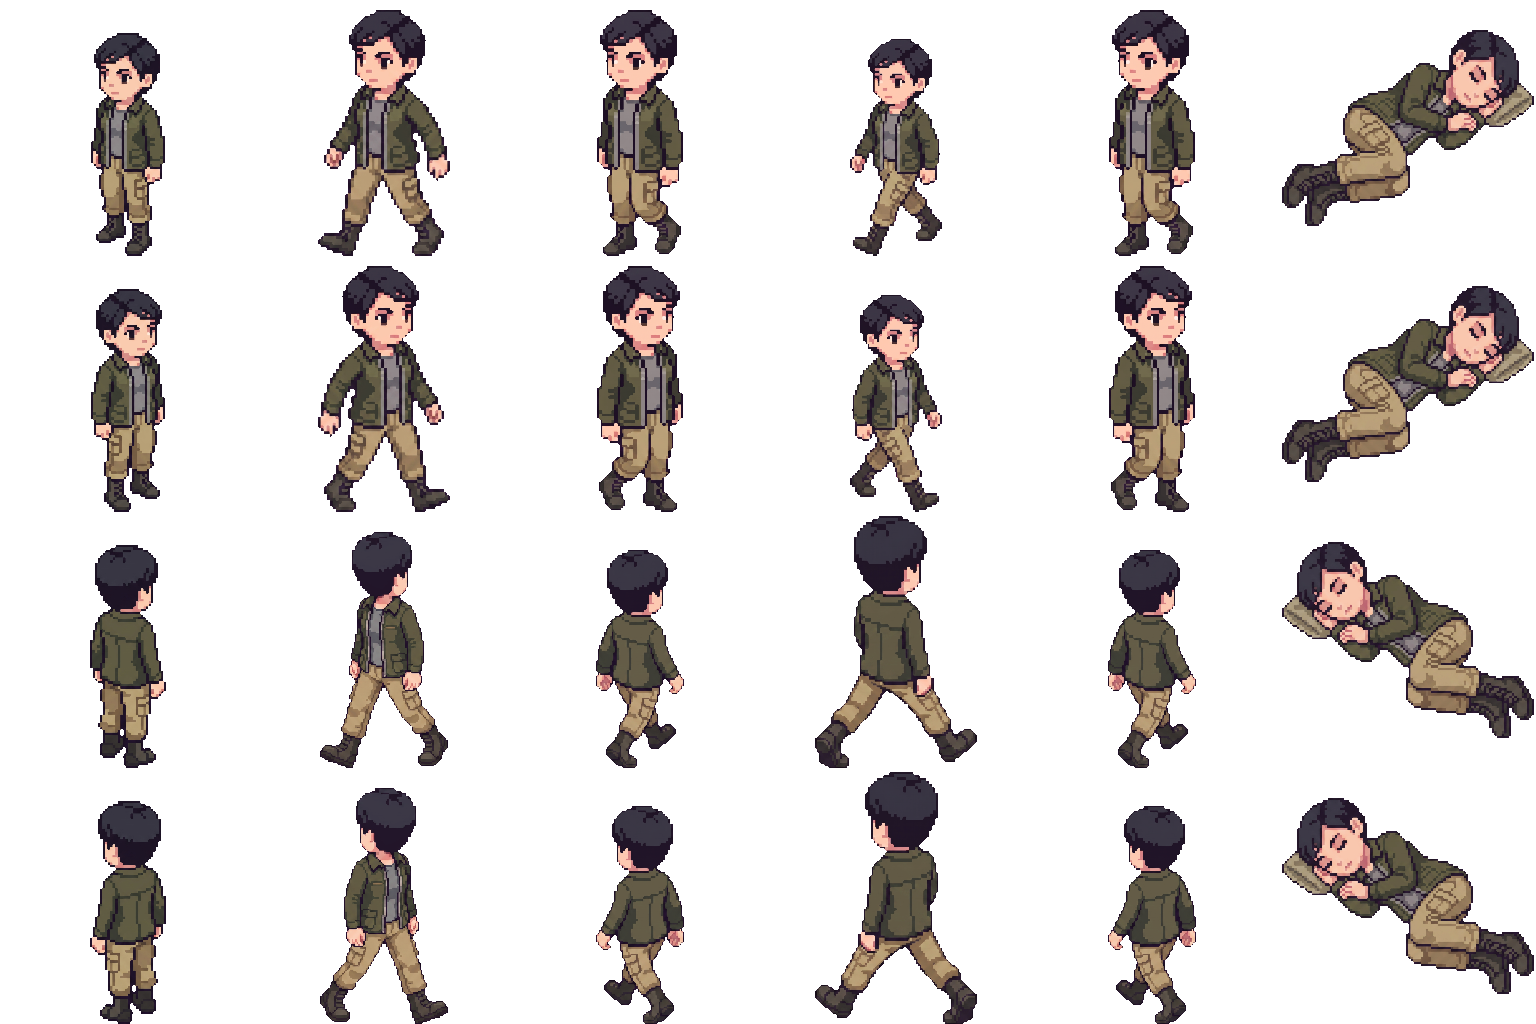
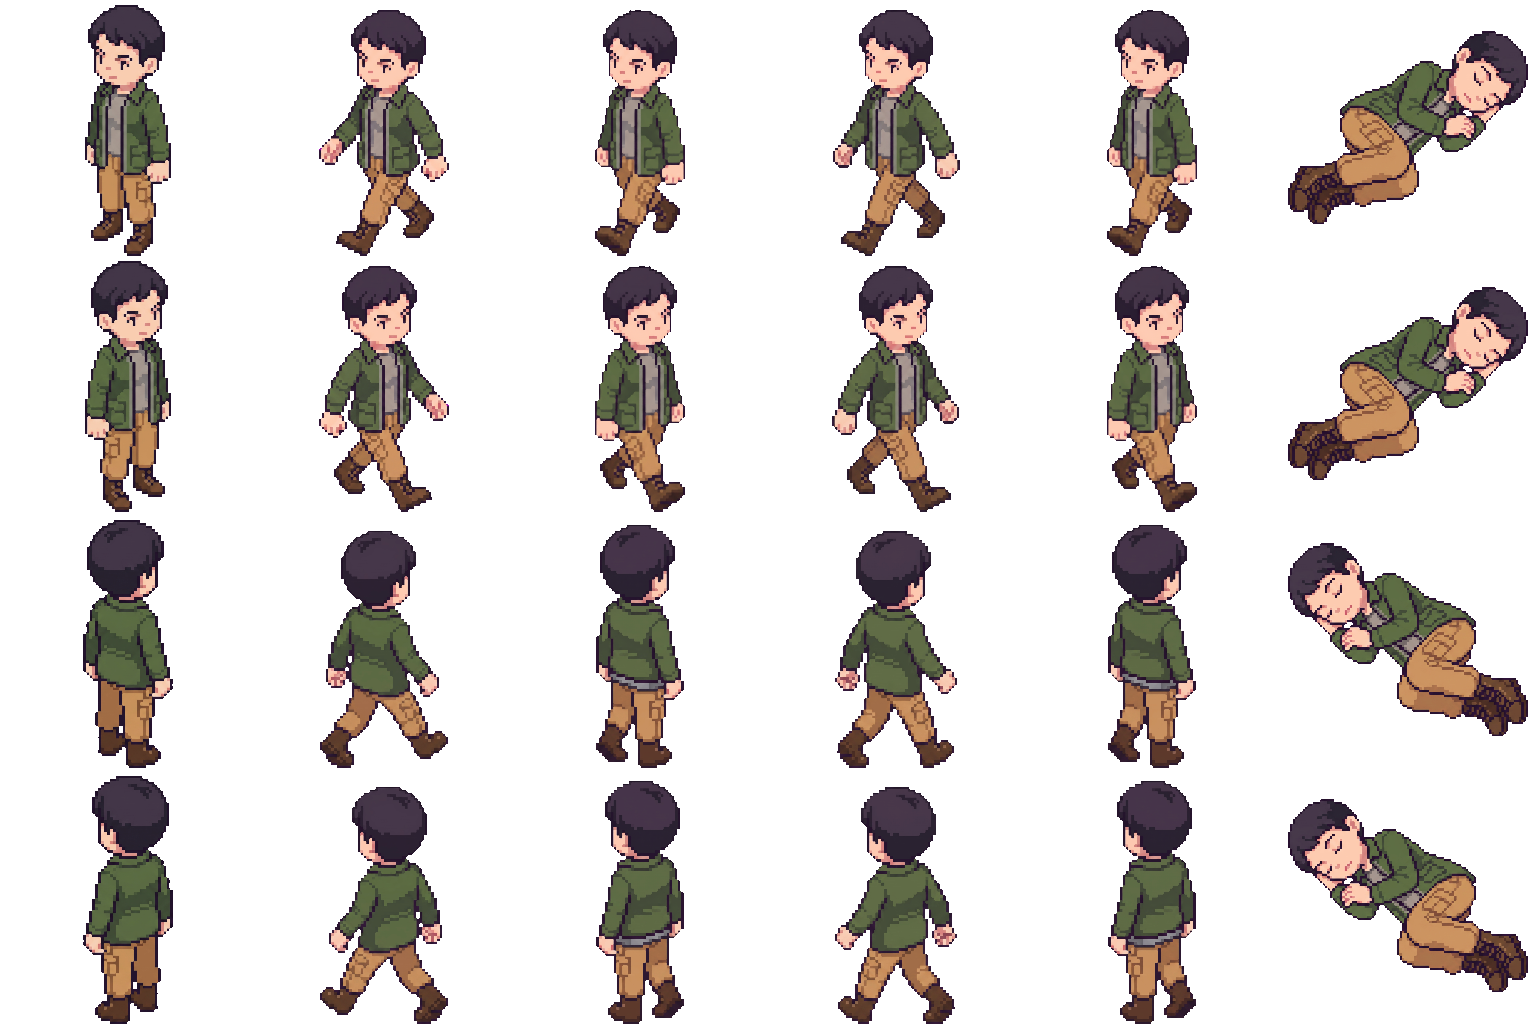
A walk row keeps one height and one face, and the key's leftovers are refused
Dilara shrank mid-stride because her idle came back small and every stride
drew tall; tariq turned his back twice a step. Three laws over a row of
walk cells now read the committed atlases and refuse a sheet before it is
written: the five heights spread at most 18 px, a front-facing head keeps
half the row's skin, and a magenta disc the key missed is not art. Dilara
is redrawn whole off a taller master; tariq's passing frame faces front.

Claude-Session: https://claude.ai/code/session_01Fv7TMdGbp6aijJ41zaaSTX

diff --git a/packages/forge/src/walkGates.ts b/packages/forge/src/walkGates.ts
@@ -1,0 +1,95 @@
+// Two laws over one row of a walk cycle that the frame-to-frame gates cannot see: a figure that
+// shrinks mid-stride (dilara's contact-b shipped 29 px short) and a front-facing frame drawn from
+// behind (tariq's passing frame shipped hair only, no face). Both read committed cells, no model.
+import { opaqueBbox } from './sheet.js'
+import type { RawImage } from './post/raw.js'
+
+export const WALK_CELLS = ['idle', 'contact-a', 'passing-a', 'contact-b', 'passing-b'] as const
+
+/** Measured over sixteen shipped sheets: a healthy row spreads 5–15 px (a contact pose dips
+ *  the figure a few pixels below its idle); the defect measured 29 and 34. */
+export const WALK_HEIGHT_SPREAD_MAX = 18
+
+/** A front-facing frame keeps at least this share of the row's fullest head. Healthy front
+ *  rows measure 0.61 and up; the back of a head measured 0.35. */
+export const HEAD_SKIN_SHARE_MIN = 0.5
+
+// The palette's three skin tones; the fringe over a face is hair, and hair is none of these.
+const SKIN: readonly [number, number, number][] = [
+  [0xf5, 0xd3, 0xb3],
+  [0xd9, 0xa8, 0x76],
+  [0x9c, 0x6b, 0x47],
+]
+const SKIN_TOLERANCE = 60
+
+const isSkin = (r: number, g: number, b: number): boolean =>
+  SKIN.some(
+    ([sr, sg, sb]) => Math.abs(r - sr) + Math.abs(g - sg) + Math.abs(b - sb) <= SKIN_TOLERANCE,
+  )
+
+export function figureHeight(img: RawImage): number {
+  const b = opaqueBbox(img)
+  return b === null ? 0 : b.y1 - b.y0 + 1
+}
+
+/** Skin pixels in the head band — the top third of the figure's own bounding box. */
+export function headSkinPixels(img: RawImage): number {
+  const b = opaqueBbox(img)
+  if (b === null) return 0
+  const band = Math.round((b.y1 - b.y0 + 1) / 3)
+  let n = 0
+  for (let y = b.y0; y < b.y0 + band; y++)
+    for (let x = b.x0; x <= b.x1; x++) {
+      const i = (y * img.width + x) * 4
+      if (img.data[i + 3]! > 0 && isSkin(img.data[i]!, img.data[i + 1]!, img.data[i + 2]!)) n++
+    }
+  return n
+}
+
+/** Opaque pixels the chroma key left behind. A shadow disc under the feet measured 1 250; the
+ *  shipped sheets carry 0–7 such pixels along an outline, which is the key's edge, not a disc. */
+export const MAGENTA_RESIDUE_MAX = 20
+
+export function magentaResidue(img: RawImage): number {
+  let n = 0
+  for (let i = 0; i < img.data.length; i += 4) {
+    if (img.data[i + 3]! === 0) continue
+    const r = img.data[i]!,
+      g = img.data[i + 1]!,
+      b = img.data[i + 2]!
+    if (r > 140 && b > 140 && g < 0.6 * Math.min(r, b)) n++
+  }
+  return n
+}
+
+export type WalkRowFailure = {
+  gate: 'walk-height' | 'head-skin'
+  cell: string
+  value: number
+  limit: number
+}
+
+/** One row of a facing: the five walk cells by name. `frontFacing` turns the face law on. */
+export function walkRowGate(
+  cells: Readonly<Record<(typeof WALK_CELLS)[number], RawImage>>,
+  frontFacing: boolean,
+): WalkRowFailure[] {
+  const out: WalkRowFailure[] = []
+  const heights = WALK_CELLS.map((c) => figureHeight(cells[c]))
+  const spread = Math.max(...heights) - Math.min(...heights)
+  if (spread > WALK_HEIGHT_SPREAD_MAX) {
+    const shortest = WALK_CELLS[heights.indexOf(Math.min(...heights))]!
+    out.push({ gate: 'walk-height', cell: shortest, value: spread, limit: WALK_HEIGHT_SPREAD_MAX })
+  }
+  if (frontFacing) {
+    const skin = WALK_CELLS.map((c) => headSkinPixels(cells[c]))
+    const most = Math.max(...skin)
+    if (most > 0)
+      for (const [i, c] of WALK_CELLS.entries()) {
+        const share = skin[i]! / most
+        if (share < HEAD_SKIN_SHARE_MIN)
+          out.push({ gate: 'head-skin', cell: c, value: share, limit: HEAD_SKIN_SHARE_MIN })
+      }
+  }
+  return out
+}

diff --git a/packages/forge/scripts/gen-cast-v5.ts b/packages/forge/scripts/gen-cast-v5.ts
@@ -42,6 +42,7 @@ import { trimToFigure } from '../src/hires.js'
 import { packCharacterAtlas } from '../src/atlasV4.js'
 import { alphaBinaryGate, paletteDistance, soleSilhouetteGate } from '../src/pixelGates.js'
 import { quantize } from '../src/post/quantize.js'
+import { MAGENTA_RESIDUE_MAX, WALK_CELLS, magentaResidue, walkRowGate } from '../src/walkGates.js'
 import { refusalMessage } from '../src/gate.js'
 import { CAST_CONTENT_DIR } from '../src/castArt.js'
 import { BIG_PIXEL, PROPORTION_CLAUSE } from './character.js'
@@ -473,6 +474,9 @@ async function runCharacter(m: CastMember): Promise<void> {
     // inside the figure's own column reads as one cluster. Hard reject: another candidate is drawn.
     const sole = soleSilhouetteGate(hi)
     if (!sole.ok) throw new Error(sole.failures.join('; '))
+    const residue = magentaResidue(hi)
+    if (residue > MAGENTA_RESIDUE_MAX)
+      throw new Error(`${residue} magenta pixels the key missed — a shadow disc`)
     const b = opaqueBbox(hi)!
     const aspect = (b.x1 - b.x0 + 1) / (b.y1 - b.y0 + 1)
     if (aspect > 1.15) throw new Error(`aspect ${aspect.toFixed(2)} > 1.15 — multi-figure or lying`)
@@ -586,6 +590,8 @@ async function runCharacter(m: CastMember): Promise<void> {
       // caption, and a sleeping villager is where the model likes to draw floating "z"s.
       const sole = soleSilhouetteGate(hi)
       if (!sole.ok) throw new Error(sole.failures.join('; '))
+      const residue = magentaResidue(hi)
+      if (residue > MAGENTA_RESIDUE_MAX) throw new Error(`${residue} magenta pixels the key missed`)
       const failures = sleepCoherenceGateV4(gateView(hi))
       push(
         `${key}: ${failures.length === 0 ? 'PASS' : failures.map((x) => `${x.gate}(${x.value.toFixed(3)})`).join(',')}`,
@@ -624,6 +630,23 @@ async function runCharacter(m: CastMember): Promise<void> {
     },
     sleep: sleep.hi,
   })
+  // The row laws, on the derived cells: a frame that passed every pairwise gate can still be
+  // the short one in its row, or the back of a head in a front-facing row.
+  const rows = (['se', 'ne'] as const).flatMap((f) =>
+    walkRowGate(
+      Object.fromEntries(WALK_CELLS.map((p) => [p, cells.get(`${p}-${f}`)!])) as Record<
+        (typeof WALK_CELLS)[number],
+        RawImage
+      >,
+      f === 'se',
+    ).map((x) => `${x.cell}-${f} ${x.gate} ${x.value.toFixed(2)} against ${x.limit}`),
+  )
+  for (const r of rows) push(`row: ${r}`)
+  if (rows.length > 0)
+    throw new Error(
+      `${m.id}: a walk row fails its law — ${rows.join('; ')}. CAST_REJECTED the offending ` +
+        'candidate and draw again. Nothing is written for this character.',
+    )
   for (const [name, img] of cells) writeFileSync(`${DIR}/cells/${name}.png`, await encodePng(img))
   const { image, manifest } = packCharacterAtlas(cells, TARGET_H)
   const atlas = await encodeWebp(image)

diff --git a/packages/forge/src/castAudit.test.ts b/packages/forge/src/castAudit.test.ts
@@ -25,6 +25,7 @@ import {
 } from './pixelGates.js'
 import { listCommittedCast, type CommittedCharacter } from './castArt.js'
 import { trimToFigure } from './hires.js'
+import { MAGENTA_RESIDUE_MAX, WALK_CELLS, magentaResidue, walkRowGate } from './walkGates.js'
 
 const MAX_ART_H = FEET_Y_V2 + 1
 const CALIBRATED_MEDIAN = 0.31
@@ -245,6 +246,55 @@ describe('the derived facings are exact mirrors, and the gate now agrees across 
       expect(cellDistance(lhs, rhs), 'cellDistance would not see the shift').toBeGreaterThan(0)
     }
     expect(odd, 'no odd-width bbox in this sheet — the residual is unexercised').toBeGreaterThan(0)
+  })
+})
+
+// Two rows of one walk each shipped past every frame gate: dilara's front contact-b 29 px short
+// of its neighbours, and tariq's front passing frame drawn from behind. A row keeps one height
+// and, facing front, one face.
+describe('every committed walk row keeps one height and, facing front, one face', () => {
+  it.each(cast.map((c) => [c.id, c] as const))('%s', async (id, c) => {
+    const crop = cropper(c, await atlasOf(c))
+    for (const f of FACINGS) {
+      const row = Object.fromEntries(WALK_CELLS.map((p) => [p, crop(`${p}-${f}`)])) as Record<
+        (typeof WALK_CELLS)[number],
+        RawImage
+      >
+      const failures = walkRowGate(row, f === 'sw' || f === 'se').map(
+        (x) => `${id} ${x.cell}-${f} ${x.gate} ${x.value.toFixed(2)} against ${x.limit}`,
+      )
+      expect(failures).toEqual([])
+    }
+  })
+
+  it.each(cast.map((c) => [c.id, c] as const))(
+    '%s carries no magenta the key missed',
+    async (id, c) => {
+      const crop = cropper(c, await atlasOf(c))
+      for (const name of Object.keys(c.manifest.cells))
+        expect(magentaResidue(crop(name)), `${id} ${name}`).toBeLessThanOrEqual(MAGENTA_RESIDUE_MAX)
+    },
+  )
+
+  it('is not vacuous: a short frame and a faceless frame are both refused', async () => {
+    const c = cast.find((x) => x.id === 'omar')!
+    const crop = cropper(c, await atlasOf(c))
+    const row = Object.fromEntries(WALK_CELLS.map((p) => [p, crop(`${p}-se`)])) as Record<
+      (typeof WALK_CELLS)[number],
+      RawImage
+    >
+    expect(walkRowGate(row, true)).toEqual([])
+    const short = fitForGate(row['contact-b'])
+    const shrunk = downscaleMajority(short, short.width, Math.round(short.height * 0.85))
+    expect(walkRowGate({ ...row, 'contact-b': shrunk }, true).map((x) => x.gate)).toContain(
+      'walk-height',
+    )
+    // The back of his own head where his face should be.
+    const back = crop('passing-a-ne')
+    expect(walkRowGate({ ...row, 'passing-a': back }, true).map((x) => x.gate)).toContain(
+      'head-skin',
+    )
+    expect(walkRowGate({ ...row, 'passing-a': back }, false)).toEqual([])
   })
 })
 
